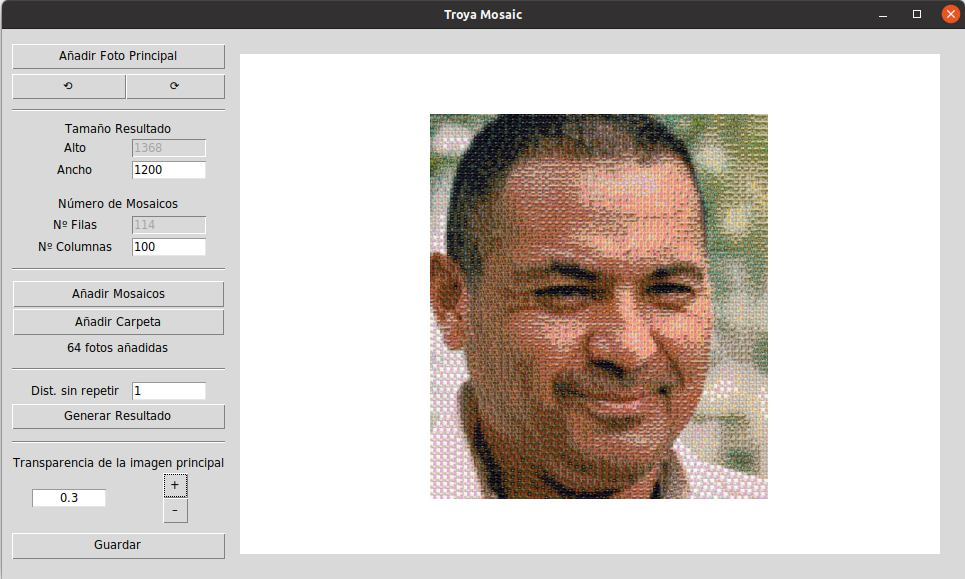
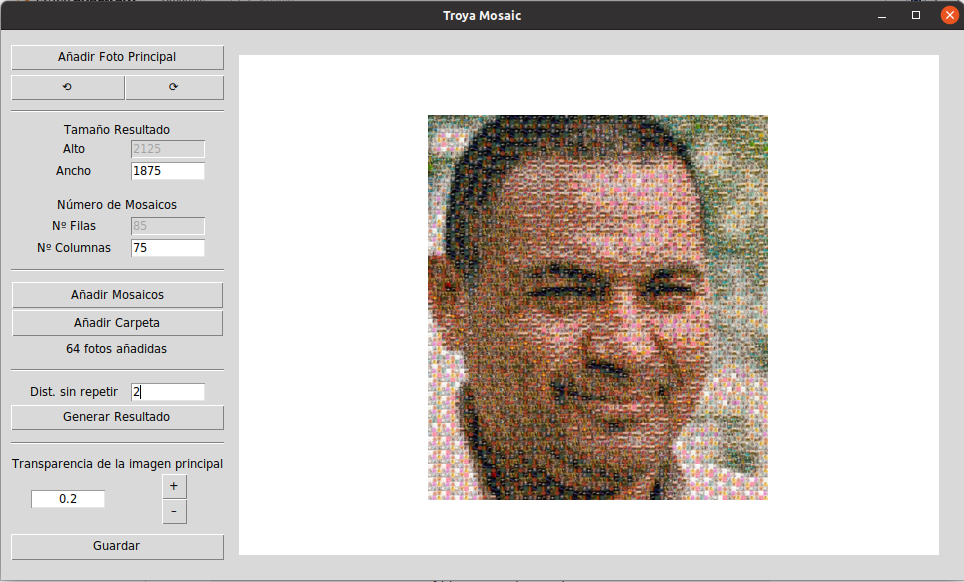
Corrección de errores

diff --git a/scripts/troya_mosaic.py b/scripts/troya_mosaic.py
@@ -59,7 +59,28 @@ class TroyaMosaic:
         idx = dists.argmin()
         
         return idx, dists[idx]
-
+    
+    def adjustValues(self,width,n_photos_width):
+        if width > 0 and n_photos_width > 0:
+            if width % n_photos_width != 0:
+                width -= width % n_photos_width
+            
+            tile_size = int(width/n_photos_width)
+            
+            proportion = self.__main_img.shape[0]/self.__main_img.shape[1]
+            height = int(width*proportion)
+            n_photos_height = int(height/tile_size)
+            
+            if n_photos_height == 0:
+                n_photos_height = 1
+            
+            height = n_photos_height*tile_size
+            
+            return True, height, width, n_photos_height, n_photos_width, tile_size
+        else:
+            return False, 0, width, 0, n_photos_width, 0
+        
+    
     @staticmethod
     def checkEnt(idx_i,idx_j,matrix,dist=1):
         forbidden = []
@@ -72,24 +93,20 @@ class TroyaMosaic:
         return forbidden
     
     def generate_by_color(self, n_photos_width, width, dist_rep=0, mostCommon=Tile.mostCommon_Average, redu=1):
+        if width < n_photos_width:
+            print('El ancho ha de ser mayor que el número de columnas')
+            return False
+        
+        success, height, width, n_photos_height, n_photos_width, tile_size = self.adjustValues(width, n_photos_width)
+        
+        if not success:
+            if width <= 0:
+                print('El ancho ha de ser mayor que 0')
+            if n_photos_width <= 0:
+                print('El número de columnas ha de ser mayor que 0')
+            return False
+        
         self.__result = self.__main_img.copy()
-        
-        if width % n_photos_width != 0:
-            width -= width % n_photos_width
-        
-        tile_size = int(width/n_photos_width)
-        
-        proportion = self.__result.shape[0]/self.__result.shape[1]
-        height = int(width*proportion)
-        n_photos_height = int(height/tile_size)
-        
-        if n_photos_height == 0:
-            n_photos_height=1
-        
-        height = n_photos_height*tile_size
-        
-        print(str(width) + ' píxeles de ancho y ' + str(n_photos_width) + ' fotos.')
-        print(str(height) + ' píxeles de alto y ' + str(n_photos_height) + ' fotos.')
         
         self.__result.resize_image(width,height)
         
@@ -98,10 +115,14 @@ class TroyaMosaic:
         for i in range(len(mosaic_imgs)):
             mosaic_imgs[i].resize_image(tile_size,tile_size)
             mostCommon(mosaic_imgs[i],redu=redu)
-            
+
+        print(str(width) + ' píxeles de ancho y ' + str(n_photos_width) + ' fotos.')
+        print(str(height) + ' píxeles de alto y ' + str(n_photos_height) + ' fotos.')
 
         print('Generando resultado...\n')
         
+        if dist_rep < 0:
+            dist_rep = 0
         used_matrix = -np.ones([n_photos_height,n_photos_width],dtype=np.int)
         
         for i in range(n_photos_height):
@@ -135,32 +156,6 @@ class TroyaMosaic:
         print('Done!\n')
         return True
         
-    
-    '''
-    def generate_by_pixel(self,n_photos):
-        self.__result = self.__main_img.copy()
-        mosaic_imgs = self.__tiles.copy()
-        
-        height = self.__result.shape[0]
-        width = self.__result.shape[1]
-        
-        size_mosaic = int(height/n_photos)
-        
-        for i in range(len(mosaic_imgs)):
-            mosaic_imgs[i].resize_image(size_mosaic,size_mosaic)
-        
-        print('Generando resultado...\n')
-        
-        for i in np.arange(0,height,size_mosaic):
-            for j in np.arange(0,width,size_mosaic):
-                cuadradito = Tile(self.__result[i:i+size_mosaic,j:j+size_mosaic])
-                idx, _ = TroyaMosaic.find_nearest(mosaic_imgs,cuadradito,Tile.getDiff_by_pixel)
-                self.__result[i:i+size_mosaic,j:j+size_mosaic] = mosaic_imgs[idx].getData()
-                if ((i*height/size_mosaic)/size_mosaic+j/size_mosaic)%((n_photos*n_photos)/10) == 0:
-                    print('Fotos añadidas: ' +str((i*height/size_mosaic)/size_mosaic+j/size_mosaic))
-                
-        print('Done!\n')
-    '''
     
     def rotate_image(self,orient):
         if orient ==  'left':

diff --git a/gui/troya_mosaic_gui.py b/gui/troya_mosaic_gui.py
@@ -85,7 +85,8 @@ class TroyaMosaicGUI:
         
         dist_rep = tk.IntVar()
         ttk.Label(mainwindow,text='Dist. sin repetir').grid(column=1, row=idx_row, pady=2)
-        ttk.Entry(mainwindow,width=10, textvariable=dist_rep).grid(column=2, row=idx_row, pady=2)
+        self.dist_rep_entry = ttk.Entry(mainwindow,width=10, textvariable=dist_rep, validatecommand=lambda: self.callback_rep(dist_rep.get()), validate='focusout')
+        self.dist_rep_entry.grid(column=2, row=idx_row, pady=2)
         idx_row+=1
         
         
@@ -164,19 +165,19 @@ class TroyaMosaicGUI:
         
     def callback_size(self, width, n_photos_width):
         if not self.__troya.getMainImg().isEmpty():
-            if width % n_photos_width != 0:
-                width -= width % n_photos_width
+            if width < 0:
+                width = abs(width)
+            elif width == 0:
+                width = self.__troya.getMainImg().shape[1]
+            if n_photos_width < 0:
+                n_photos_width = abs(n_photos_width)
+            elif n_photos_width == 0:
+                n_photos_width = 75
             
-            tile_size = int(width/n_photos_width)
+            if n_photos_width > width:
+                width = n_photos_width
             
-            proportion = self.__troya.getMainImg().shape[0]/self.__troya.getMainImg().shape[1]
-            height = int(width*proportion)
-            n_photos_height = int(height/tile_size)
-            
-            if n_photos_height == 0:
-                n_photos_height=1
-            
-            height = n_photos_height*tile_size
+            success, height, width, n_photos_height, n_photos_width, tile_size = self.__troya.adjustValues(width, n_photos_width)
             
             self.height_entry.config(state=tk.NORMAL)
             self.height_entry.delete(0,tk.END)
@@ -212,7 +213,15 @@ class TroyaMosaicGUI:
         if direct:
             self.__troya.addDirectory(direct)
             self.n_anyadidas.config(text=str(len(self.__troya.getTiles())) + ' fotos añadidas')
+    
+    def callback_rep(self, dist_rep):
+        if dist_rep < 0:
+            dist_rep = 0
+            self.dist_rep_entry.delete(0,tk.END)
+            self.dist_rep_entry.insert(0,str(dist_rep))
         
+        return True
+            
     def GenerateResult(self, ncol, width, dist):
         if self.__troya.getMainImg().isEmpty():
             tk.messagebox.showinfo(title='Información', message='Carga antes una imagen principal!')
@@ -267,12 +276,14 @@ class TroyaMosaicGUI:
         
         plot_proportion = toplot.shape[0]/toplot.shape[1]
         
+        max_size = 500
+        
         if plot_proportion >= 1:
-            plot_height = 800
-            plot_width = int(800/plot_proportion)
+            plot_height = max_size
+            plot_width = int(max_size/plot_proportion)
         else:
-            plot_width = 800
-            plot_height = int(800*plot_proportion)
+            plot_width = max_size
+            plot_height = int(max_size*plot_proportion)
             
         toplot.resize_image(plot_width,plot_height)
         
